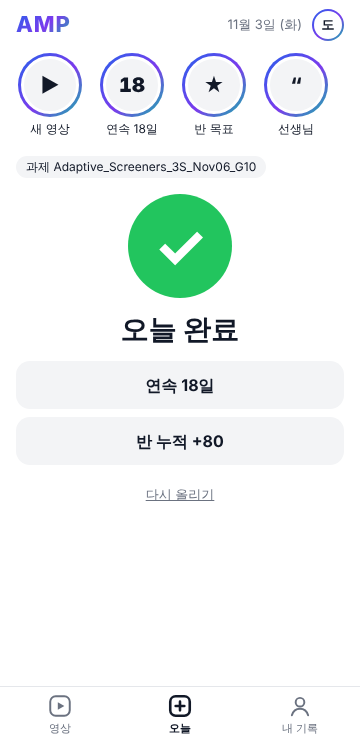
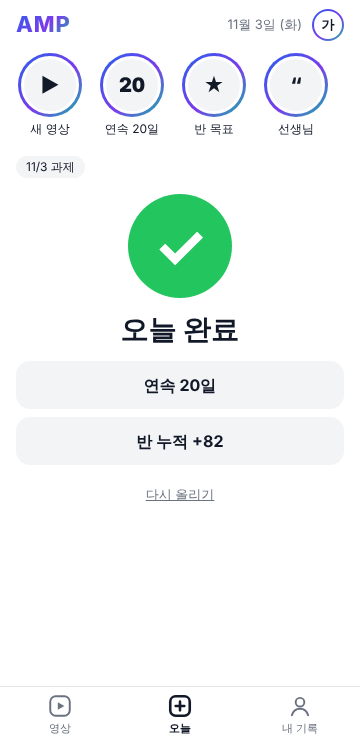
Never show a raw set id: clean labels on 오늘, raw-id lint
The student page carries fnv1a(set_id) -> label (assignments.json, else
the session topic, else "M/D 과제") and maps ?set= in the browser. The
lint stops publish when Adaptive_, round_, _G10-style suffixes or .json
reach a student or parent page. Windows run steps in README/HANDOFF.

Claude-Session: https://claude.ai/code/session_01GqckysMirnb8kacWBYz73B

diff --git a/static/app.js b/static/app.js
@@ -17,6 +17,12 @@
   }
   function weekday(day) { return (new Date(day + 'T00:00:00Z').getUTCDay() + 6) % 7; } /* Mon = 0 */
   function data() { return JSON.parse($('data').textContent); }
+  /* FNV-1a 32-bit in base 36; same as console/generate.py set_hash() */
+  function fnv(str) {
+    var h = 0x811c9dc5;
+    for (var i = 0; i < str.length; i++) { h ^= str.charCodeAt(i); h = Math.imul(h, 0x01000193) >>> 0; }
+    return h.toString(36);
+  }
 
   var page = document.body.getAttribute('data-page');
   if (page === 'go') go();
@@ -74,7 +80,12 @@
     showTab((location.hash || '#today').slice(1));
 
     $('today-date').textContent = Number(today.slice(5, 7)) + '월 ' + Number(today.slice(8, 10)) + '일 (' + WD[weekday(today)] + ')';
-    if (set) { $('today-set').textContent = fmt(S.today_set, { set: set }); $('today-set').hidden = false; }
+    if (set) {
+      /* never show the raw set id: the page only knows hash(set_id) -> label */
+      var label = (D.sets || {})[fnv(set)] || fmt(S.set_default, { md: Number(today.slice(5, 7)) + '/' + Number(today.slice(8, 10)) });
+      $('today-set').textContent = fmt(S.today_set, { label: label });
+      $('today-set').hidden = false;
+    }
 
     /* known submission days: published + this device + the Worker */
     var published = {}, known = {};

diff --git a/tests/test_raw_ids.py b/tests/test_raw_ids.py
@@ -1,0 +1,69 @@
+"""Students and parents never see an internal round/assignment id (DESIGN v2 §1)."""
+import json
+import re
+import shutil
+import subprocess
+from datetime import date, datetime
+
+import pytest
+
+from console import generate, lint, ops
+from console.db import KST
+
+from conftest import TODAY
+
+NOW = datetime(2026, 11, 6, 10, 0, tzinfo=KST)
+RAW = "Adaptive_Screeners_3S_Nov06_G10"
+
+
+@pytest.mark.parametrize("text", [RAW, "round_X_2026-11-01", "Weekly_G11", "rounds.json", "set_G9 check"])
+def test_lint_catches_raw_ids(tmp_path, text):
+    (tmp_path / "p" / "x").mkdir(parents=True)
+    (tmp_path / "p" / "x" / "index.html").write_text(f"<title>AMP 학습 기록</title><p>{text}</p>", encoding="utf-8")
+    assert "raw_id" in {f.kind for f in lint.errors(lint.lint_dir(tmp_path, [], "AMP 학습 기록"))}
+
+
+def test_lint_allows_ordinary_text(tmp_path):
+    (tmp_path / "s" / "x").mkdir(parents=True)
+    (tmp_path / "s" / "x" / "index.html").write_text(
+        '<title>AMP 학습 기록</title><link rel="manifest" href="manifest.webmanifest"><p>11/6 과제 · G10반</p>',
+        encoding="utf-8")
+    assert not lint.errors(lint.lint_dir(tmp_path, [], "AMP 학습 기록"))
+
+
+def test_raw_id_in_a_note_stops_publish(conn, cfg, klass, tmp_path):
+    _, studs = klass
+    ops.add_note(conn, studs[0]["id"], "2026-W45", f"{RAW} 다시 풀기")
+    conn.commit()
+    res = generate.publish(conn, cfg, tmp_path / "dist", today=TODAY, now=NOW)
+    assert not res.ok and "raw_id" in {f.kind for f in lint.errors(res.findings)}
+
+
+def test_set_labels_hide_the_id(conn, cfg, klass, tmp_path):
+    cls, studs = klass
+    ops.ensure_session(conn, cls["id"], date(2026, 11, 3), RAW)
+    ops.ensure_session(conn, cls["id"], date(2026, 11, 6), "Adaptive_Screeners_3S_Nov06b_G10", topic="금요일 프린트")
+    conn.commit()
+    cfg.assignments_path = str(tmp_path / "none.json")
+    labels = generate.set_labels(conn, cfg, cls["id"])
+    assert labels[generate.set_hash(RAW)] == "11/3 과제"
+    assert labels[generate.set_hash("Adaptive_Screeners_3S_Nov06b_G10")] == "금요일 프린트"
+    (tmp_path / "assignments.json").write_text(json.dumps({RAW: "11/3 프린트", "_comment": "x"}), encoding="utf-8")
+    cfg.assignments_path = str(tmp_path / "assignments.json")
+    assert generate.set_labels(conn, cfg, cls["id"])[generate.set_hash(RAW)] == "11/3 프린트"
+    res = generate.publish(conn, cfg, tmp_path / "dist", today=TODAY, now=NOW)
+    assert res.ok, [str(f) for f in res.findings]
+    html = (tmp_path / "dist" / "s" / studs[0]["student_token"] / "index.html").read_text(encoding="utf-8")
+    assert "Adaptive" not in html and "11/3 프린트" in html
+
+
+@pytest.mark.skipif(shutil.which("node") is None, reason="node not installed")
+def test_python_and_js_hash_agree():
+    ids = [RAW, "", "abc", "x-y_z"]
+    js = ("function fnv(str){var h=0x811c9dc5;for(var i=0;i<str.length;i++){h^=str.charCodeAt(i);"
+          "h=Math.imul(h,0x01000193)>>>0;}return h.toString(36);}"
+          f"console.log(JSON.stringify({json.dumps(ids)}.map(fnv)))")
+    out = json.loads(subprocess.run(["node", "-e", js], capture_output=True, text=True, check=True).stdout)
+    assert out == [generate.set_hash(i) for i in ids]
+    src = open(generate.STATIC / "app.js", encoding="utf-8").read()
+    assert re.search(r"h \^= str\.charCodeAt\(i\); h = Math\.imul\(h, 0x01000193\) >>> 0;", src)

diff --git a/console/generate.py b/console/generate.py
@@ -26,7 +26,7 @@ STATIC = ROOT / "static"
 
 SVG_W, SVG_H = 320, 150
 JS_STRINGS = ("done_title", "streak_label", "class_plus", "reward_to_go", "uploading", "upload_error",
-              "upload_rate", "upload_offline", "replaced", "no_worker", "today_set", "weekdays", "story_streak")
+              "upload_rate", "upload_offline", "replaced", "no_worker", "today_set", "set_default", "weekdays", "story_streak")
 YT_RE = re.compile(r"^[A-Za-z0-9_-]{11}$")
 WEEKDAYS_FULL = ["월요일", "화요일", "수요일", "목요일", "금요일", "토요일", "일요일"]
 PARENT_WEEKS = 8      # weeks kept in the parent room
@@ -46,6 +46,51 @@ def env() -> Environment:
                     trim_blocks=True, lstrip_blocks=True)
     e.filters["fmt"] = lambda s, **kw: s.format(**kw)
     return e
+
+
+def set_hash(set_id: str) -> str:
+    """FNV-1a 32-bit, base 36 (same as fnv() in app.js): the page maps ?set= to a label without containing the raw id."""
+    h = 0x811C9DC5
+    for ch in set_id:
+        h = ((h ^ ord(ch)) * 0x01000193) & 0xFFFFFFFF
+    return _b36(h)
+
+
+def _b36(n: int) -> str:
+    digits = "0123456789abcdefghijklmnopqrstuvwxyz"
+    out = ""
+    while True:
+        n, r = divmod(n, 36)
+        out = digits[r] + out
+        if n == 0:
+            return out
+
+
+def _resolve(cfg_path: str) -> Path | None:
+    p = Path(cfg_path)
+    if not p.is_absolute():
+        p = Path.cwd() / p
+        if not p.exists():
+            p = ROOT / cfg_path
+    return p if p.exists() else None
+
+
+def set_labels(conn: sqlite3.Connection, cfg: Config, class_id: int | None) -> dict[str, str]:
+    """{hash(set_id): label} for the student page. Label = assignments.json, else the session topic,
+    else "{M/D} 과제" from the session date. Unknown sets get "{today} 과제" in the browser."""
+    S = strings()
+    out: dict[str, str] = {}
+    if class_id is not None:
+        for r in conn.execute("SELECT date, set_id, topic FROM sessions WHERE class_id = ? AND set_id IS NOT NULL "
+                              "ORDER BY date", (class_id,)):
+            d = date.fromisoformat(r["date"])
+            out[set_hash(r["set_id"])] = (r["topic"] or "").strip() or S["set_default"].format(md=f"{d.month}/{d.day}")
+    p = _resolve(cfg.assignments_path)
+    if p is not None:
+        for sid, label in json.loads(p.read_text(encoding="utf-8")).items():
+            if isinstance(label, str) and label.strip() and not sid.startswith("_"):
+                out[set_hash(sid)] = label.strip()
+    return out
 
 
 def videos_file(cfg: Config) -> Path | None:
@@ -262,6 +307,7 @@ def build_context(conn: sqlite3.Connection, cfg: Config, today: date, now: datet
             "toGo": rw.to_go if rw else 0,
             "weekStart": mon.isoformat(),
             "stories": {st_["key"]: st_["hash"] for st_ in stories},
+            "sets": set_labels(conn, cfg, s["class_id"]),
             "S": {k: S[k] for k in JS_STRINGS},
         }
         students.append({

diff --git a/console/lint.py b/console/lint.py
@@ -22,6 +22,8 @@ RESOURCE_RE = re.compile(
 )
 CSS_URL_RE = re.compile(r"url\(\s*['\"]?\s*((?:https?:)?//[^)'\"]+)", re.I)
 IMPORT_RE = re.compile(r"@import\s+(?:url\()?['\"]?((?:https?:)?//[^)'\";]+)", re.I)
+# internal round / assignment ids and file names must never reach a student or parent page
+RAW_ID_RE = re.compile(r"Adaptive_|round_|_G(?:[1-9]|1[0-2])(?![0-9A-Za-z])|\.json\b")
 BRAND_RE = re.compile(r"kakao|instagram|#fee500", re.I)
 IMG_SRC_RE = re.compile(r"<img[^>]*\ssrc\s*=\s*[\"']([^\"']*)", re.I)
 # a submission photo: the Worker's /photo endpoint, a KV photo key, or an R2 key <day>/<token>.<ext>
@@ -124,6 +126,9 @@ def lint_dir(root: Path, students: list[PrivateRow], page_title: str) -> list[Fi
                     findings.append(Finding("error", rel, "og", f"not generic: {og.strip()!r}"))
             for url in RESOURCE_RE.findall(text):
                 findings.append(Finding("error", rel, "third_party", url))
+            if rel.split("/")[0] in ("s", "p"):
+                for m in RAW_ID_RE.finditer(text):
+                    findings.append(Finding("error", rel, "raw_id", m.group(0)))
             # another student's display name on a per-student page (warning: short names collide with words)
             parts = rel.split("/")
             if len(parts) >= 3 and parts[0] in ("s", "p") and parts[1] in by_token:

diff --git a/console/config.py b/console/config.py
@@ -15,6 +15,7 @@ class Config:
     pages_url: str = ""          # https://<project>.pages.dev  (used for printed links and QR URLs)
     teacher_token: str = ""      # same value as the Worker secret TEACHER_TOKEN
     videos_path: str = "videos.json"
+    assignments_path: str = "assignments.json"   # optional {set_id: label}; students never see a raw set id
     board_poll_seconds: int = 30
     extra: dict = field(default_factory=dict)
 
@@ -37,6 +38,7 @@ def load(path: str | Path | None = None) -> Config:
         pages_url=data.get("pages_url", ""),
         teacher_token=data.get("teacher_token", ""),
         videos_path=data.get("videos_path", "videos.json"),
+        assignments_path=data.get("assignments_path", "assignments.json"),
         board_poll_seconds=int(data.get("board_poll_seconds", 30)),
         extra={k: v for k, v in data.items()},
     )

diff --git a/DECISIONS.md b/DECISIONS.md
@@ -85,6 +85,11 @@ One line each. "deferred" = not built in P0, on purpose.
 - The room footer reads "이 방은 주간 기록 전용입니다 · 답장·문의는 카카오톡으로" (both strings from §5).
 - The e2e audit renders every page at 360×740 and 390×844 in light and dark; overflow is measured on scroll containers too, not only the document.
 
+## Pipeline fixes from the v2 review (2026-11-03)
+- Windows: every text file read/write names UTF-8 (`scripts/check_encoding.py`, enforced by pytest); the CLI writes UTF-8 to the console and recovers undecoded POSIX arguments; a test runs the CLI under an ASCII locale with UTF-8 mode off (stricter than cp1252). `scripts/demo.ps1`, `check.ps1`, `deploy-pages.ps1` are the twins of the make targets; they were written without a PowerShell to run them here, so the local agent runs them first.
+- Raw ids: a student page never contains a set/round id. It carries `{fnv1a(set_id): label}` and maps `?set=` in the browser; label = `assignments.json` (optional, gitignored; example in `mappings/`), else the session topic, else "{M/D} 과제" of the session date, else today's date.
+- Lint `raw_id` (student and parent pages): `Adaptive_`, `round_`, `_G1`..`_G12`, `.json`. A note that quotes a round id now stops publish.
+
 ## Deferred
 - deferred (local agent will add after the clone, before 수능 week): `daybook class cancel <class> <date>` so a closed day does not break streaks.
 - deferred: `export pdf` (the command is a stub that exits 2 with a message).

diff --git a/HANDOFF.md b/HANDOFF.md
@@ -31,6 +31,15 @@ cd daybook && git remote set-url origin git@github.com:MasonKat/daybook.git && g
 make demo
 ```
 
+On Windows (no `make`), in PowerShell from the repo folder:
+
+```powershell
+powershell -ExecutionPolicy Bypass -File scripts\demo.ps1
+```
+
+`scripts\check.ps1` reruns the checks and `scripts\deploy-pages.ps1` is `make deploy-pages`. Use `.venv\Scripts\daybook.exe`
+wherever this file says `.venv/bin/daybook`. No `PYTHONUTF8` is needed any more.
+
 (Proves the toolchain works; uses `demo.sqlite`, not the real DB.) Then, after the README deploy steps:
 
 ```bash
@@ -160,6 +169,12 @@ The student 영상 tab is rendered at publish from the file named by `videos_pat
   (480 px wide, ≤ 60 KB; needs Pillow, installed by `make`). Download the thumbnails once into a local folder next to
   `videos.local.json`, never from the page. Without one, the reel shows a gradient card with the title.
 - `demo/videos.demo.json` (written by `daybook demo`) and `demo/thumbs/` are a complete synthetic example.
+
+## 5b. Assignment labels (optional)
+
+Students never see a set id. The 오늘 tab shows a label for `?set=<set_id>` from `assignments.json` (gitignored; copy
+`mappings/assignments.example.json`), else the topic of `daybook session start <class> --set <id> --topic "…"`,
+else "{M/D} 과제". The lint stops publish if a raw id (`Adaptive_…`, `round_…`, `_G10`, `.json`) reaches a page.
 
 ## 6. The teacher's Saturday (after the pilot starts Friday 11-06)
 

diff --git a/README.md b/README.md
@@ -36,6 +36,9 @@ cd daybook
 make demo
 ```
 
+Windows (no `make`): `powershell -ExecutionPolicy Bypass -File scripts\demo.ps1`, then `scripts\check.ps1`;
+`scripts\deploy-pages.ps1` replaces `make deploy-pages`.
+
 `make demo` creates `.venv`, installs the console, seeds the synthetic demo into `demo.sqlite`, publishes it into
 `dist/`, and runs every check. If Playwright is missing it installs it once (`npm install playwright` plus
 `npx playwright install chromium`). The demo never touches the real database `daybook.sqlite`.
